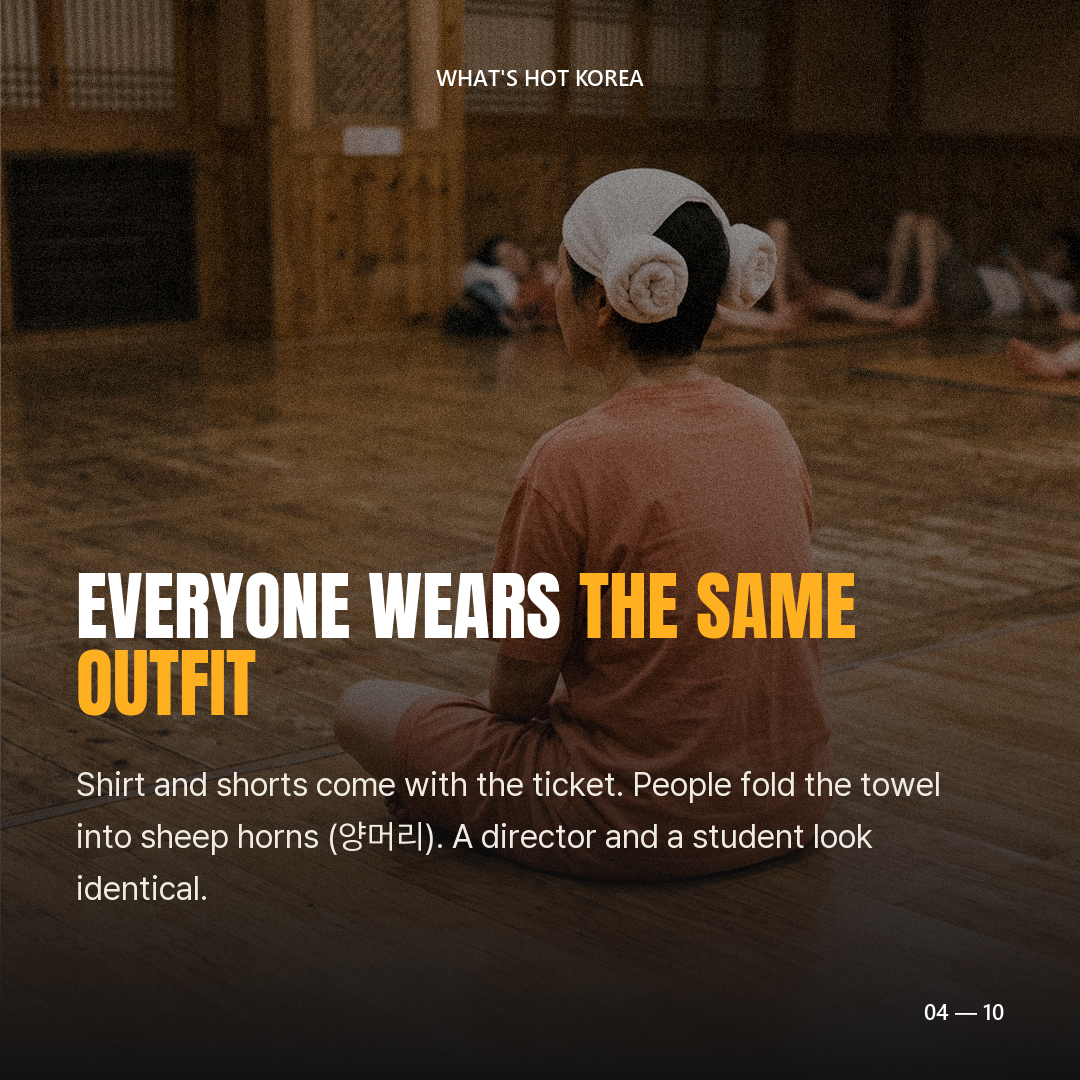
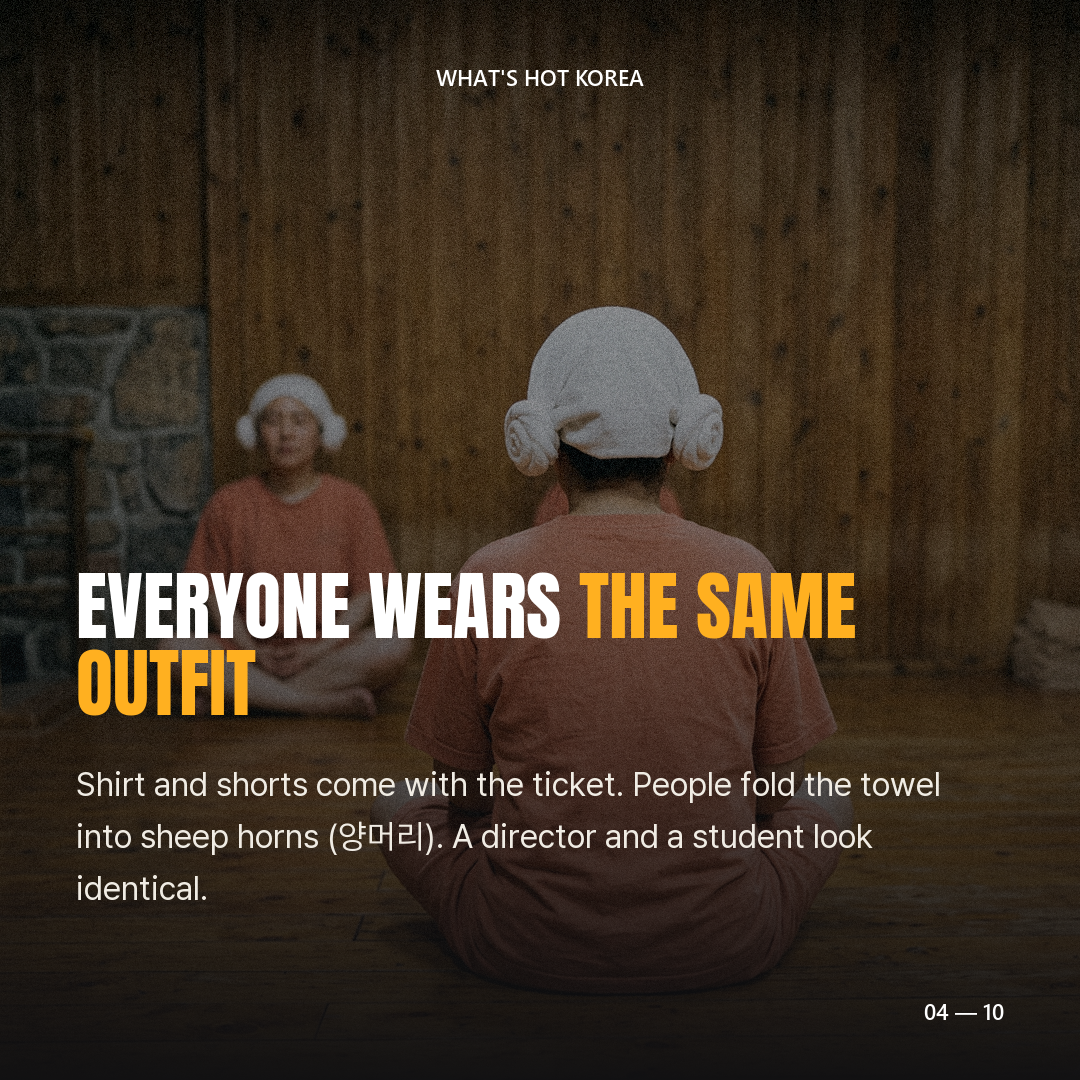
Match the yangmeori and the sikhye tub to the real thing
Two objects on the Saturday cards were drawn from a text description
instead of a photograph, and both were wrong.

The towel: a yangmeori is not horns. The towel body is a soft bonnet
over the crown and back of the head, and each end is wound into a tight
spiral -- a coiled snail shell seen end-on -- sitting at temple height
and resting on the top of the ear. Three prompts failed before an image
search settled it, so the prompt file now says to look at a photograph
first and records what each wrong wording produced.

The sikhye: it comes in a clear plastic tub with a blue snap-on lid,
not a ceramic bowl.

Claude-Session: https://claude.ai/code/session_01X6uwYsk5mKQ4eq15qp7D2A

diff --git a/2026-09-05_토요일/PROMPTS.md b/2026-09-05_토요일/PROMPTS.md
@@ -51,26 +51,39 @@ up, seen from behind. Cool light below, warm light above. No signboards, no lett
 ## content4.png — 양머리
 
 ```
-A medium shot from behind and slightly to one side of an adult sitting on a heated wooden
-floor in a Korean sauna, seen from the shoulders up and photographed from a few steps back,
-so the head sits in the upper middle of the frame with generous empty space on both sides
-and nothing cropped at the edges. On the head is a white bath towel folded in the Korean
-sauna 'yangmeori' sheep-head style: folded lengthwise into a narrow band, both ends rolled
-outward into two thick soft cylindrical rolls, like two rolled buns, sitting against the
-sides of the head just above the ears, with the flat middle of the towel lying across the
-top of the head. The rolls are rounded and chunky, never pointed, never standing upright.
+A medium shot from behind and slightly to one side of an adult sitting cross-legged on a
+heated wooden floor in a Korean sauna, seen from the shoulders up, photographed from a few
+steps back so the head sits in the upper middle of the frame with space on both sides and
+nothing cropped at the edges. On the head is a white bath towel worn as the Korean sauna
+'yangmeori': a soft rounded bonnet of towelling that drapes over the crown and the whole
+back of the head down to the nape, loose and slightly puffy, not tight, not a balaclava,
+the neck and shoulders bare of it. At each side of the head the end of the towel is wound
+into a compact tight spiral knot, like a small cinnamon roll or a coiled snail shell seen
+end-on, so the spiral coil faces sideways out of the frame. Each spiral is about fist-sized
+and sits at temple height at the side of the head, resting just above the ear and slightly
+covering the top of it, sticking straight out sideways. Two spirals, one on each side,
+symmetrical. Not pointed, not standing upright, not ears, not horns, not pompoms.
 The person wears a loose muted salmon-orange cotton t-shirt. Face not visible. Soft warm
 indoor light, background a blurred wooden wall.
 ```
 
-**양머리는 뿔이 아니다.** 첫 버전 프롬프트가 `two upright horns`였고, 그대로 수건 끝이
-위로 뾰족하게 선 토끼귀가 나왔다. 실제 양머리는 수건을 길게 접어 **양 끝을 바깥으로
-3~4번 말아** 두툼한 원통 두 개를 만들고, 가운데를 벌려 모자처럼 쓰는 것이다. 말린 롤이
-귀 옆에 옆으로 붙어야 하고 위로 서면 안 된다. `rolled outward`, `cylindrical rolls`,
-`never pointed`, `never standing upright` 넷 중 하나라도 빼면 다시 뿔이 나온다.
+**이 장은 세 번 틀리고 네 번째에 맞았다. 프롬프트를 손보기 전에 실제 사진부터 볼 것.**
+`찜질방 양머리 수건`으로 이미지 검색을 하면 바로 나온다. 글로 된 접는 법 설명만 읽고
+쓰면 계속 어긋난다 — 실제로 그렇게 어긋났다.
 
-거리도 프롬프트에 박아 둘 것. 클로즈업으로 뽑으면 12% 트림 뒤 롤 한쪽이 화면 밖으로
-잘린다. `from a few steps back` + `nothing cropped at the edges`가 그래서 들어가 있다.
+틀렸던 순서와 이유:
+
+1. `two upright horns` → 수건 끝이 위로 뾰족하게 선 토끼귀. 양머리는 뿔이 아니다.
+2. `cylindrical rolls` → 옆에 붙긴 했는데 굵은 원통이 되었고 위치가 너무 뒤였다.
+3. 뒤통수까지 덮게 했더니 목까지 내려오는 복면이 되었다.
+
+실물은 이렇다. **수건 본체는 정수리와 뒤통수를 덮는 부드러운 보닛**이고 목은 드러난다.
+양쪽 끝은 굵은 원통이 아니라 **달팽이처럼 촘촘히 감긴 나선**이라 옆에서 소용돌이 단면이
+보인다. 그 나선이 **관자놀이~귀 높이에서 옆으로 튀어나와 귀 윗부분을 살짝 덮는다.**
+`spiral`, `cinnamon roll`, `temple height`, `just above the ear` 넷이 핵심이고
+`not horns`, `not pompoms`를 같이 넣어야 다시 뿔로 돌아가지 않는다.
+
+거리도 프롬프트에 박아 둘 것. 클로즈업으로 뽑으면 12% 트림 뒤 나선 한쪽이 잘린다.
 
 ## content5.png — 불가마
 
@@ -109,11 +122,19 @@ No signboards, no lettering, no symbols anywhere on the building.
 ## content9.png — 계란과 식혜
 
 ```
-Floor-level shot of a small tray on a wooden sauna floor holding two boiled eggs still
-in their shells and a plain bowl of pale sweet rice drink with grains floating in it.
-Two hands reaching in from the edge of frame, sleeves of a salmon-orange cotton t-shirt.
-Warm overhead light, no faces, no packaging, no labels.
+Floor-level close shot on a wooden sauna floor: two brown roasted eggs still in their
+speckled shells sitting beside a small round transparent plastic tub of sikhye, the Korean
+sweet rice drink. The tub is a plain clear plastic cup-sized container with a bright blue
+snap-on plastic lid, the lid still fitted on top, completely plain with no printing
+anywhere. Inside the tub the drink is pale milky beige with cooked rice grains settled at
+the bottom. Two hands reach in from the edge of the frame, sleeves of a loose muted
+salmon-orange cotton t-shirt. Warm overhead light.
 ```
+
+식혜는 **사기 그릇에 담기지 않는다.** 첫 버전이 `a plain bowl of pale sweet rice drink`
+였고 도자기 대접에 담긴 그림이 나왔는데, 찜질방 식혜는 **투명 플라스틱 통에 파란 스냅
+뚜껑**이 정석이다. `blue snap-on plastic lid`를 빼면 다시 그릇이 된다. 통에는 아무
+인쇄도 없어야 한다 — 라벨이 붙으면 공통 규칙의 `no text` 와 충돌한다.
 
 ## cta.png — 새벽의 빈 복도
 
